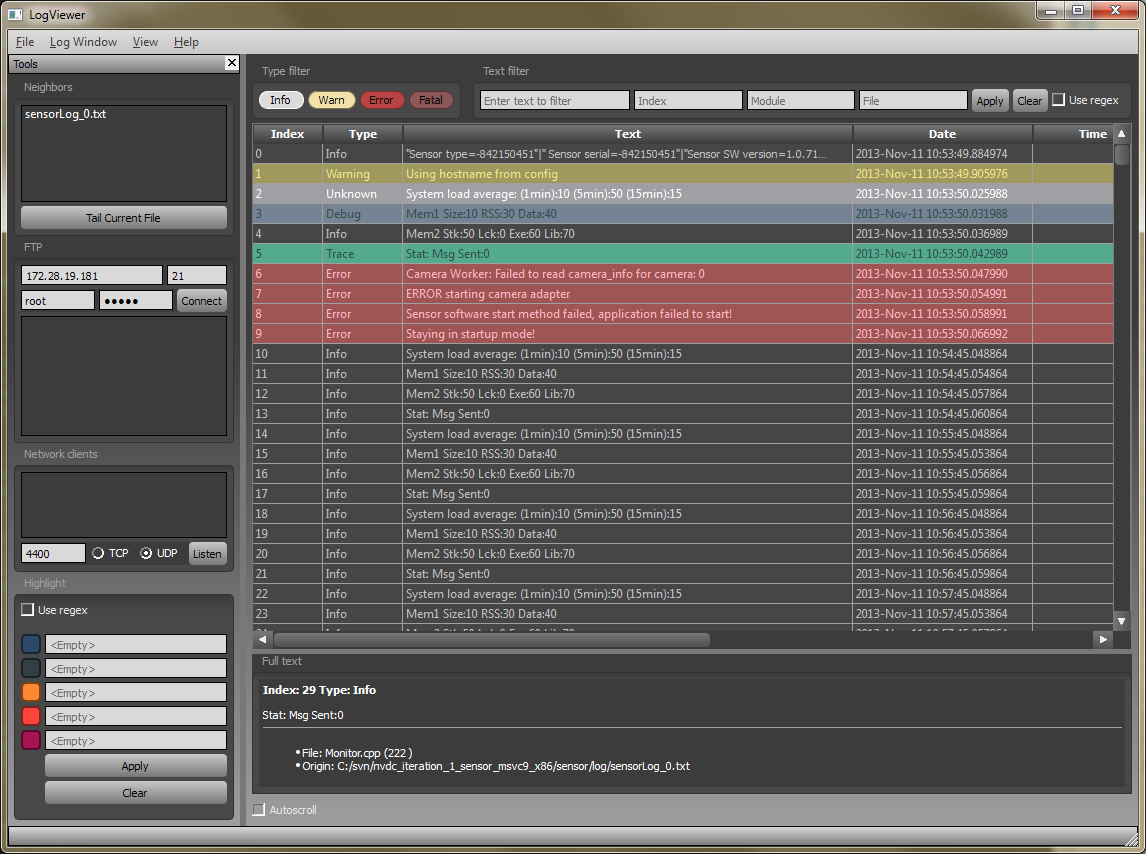
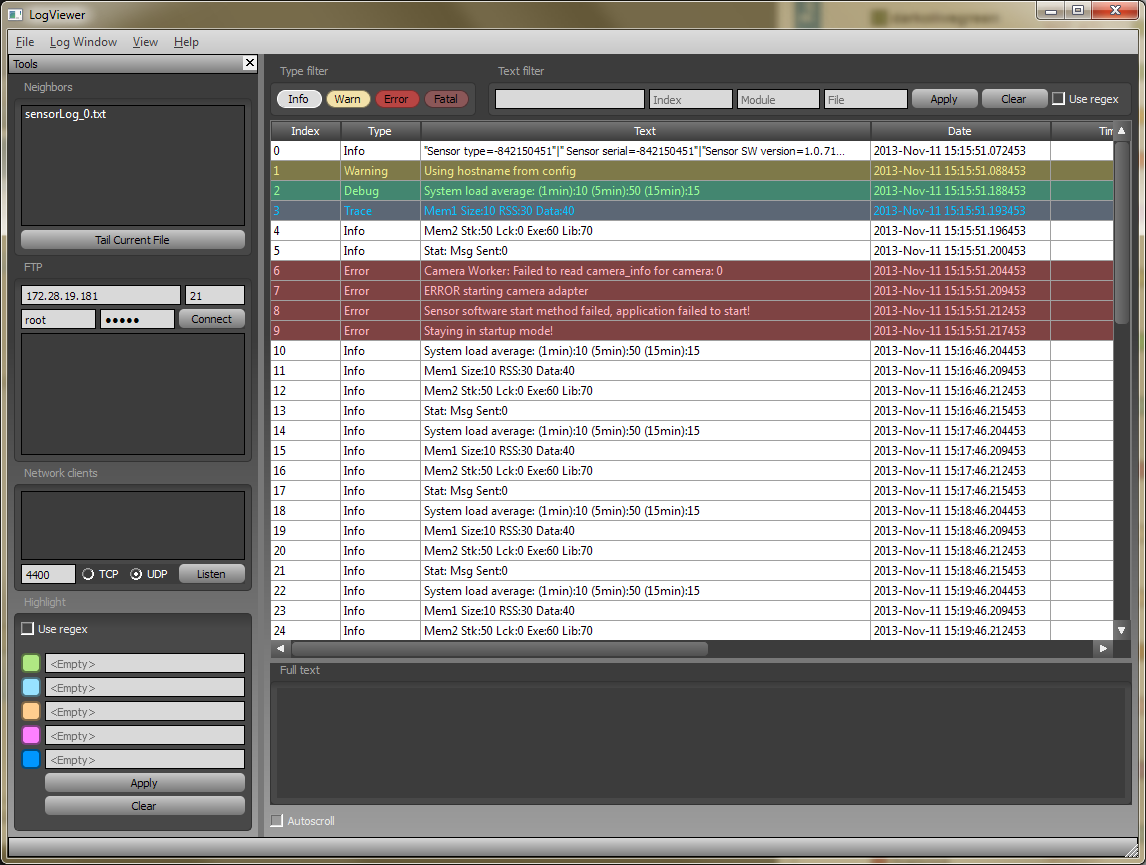
Darker theme adjustments

diff --git a/Resources/skin.css b/Resources/skin.css
@@ -197,15 +197,15 @@ QDockWidget::title {
 
 QPushButton {
     color: black;
-    border-color:transparent;
-    border-radius: 4px;
-    padding: 5px;
+    /*border: 2px solid #8f8f91;*/
+    border-radius: 5px;
+    padding: 3px;
 
         background-color: qlineargradient(spread:pad, x1:1, y1:1, x2:1, y2:0.00568182, stop:0 rgba(120, 120, 120, 255), stop:1 rgba(200, 200, 200, 255));
         /*background-color: qlineargradient(spread:reflect, x1:0, y1:1, x2:0, y2:0, stop:0 rgba(80, 80, 80, 255), stop:0.590909 rgba(80, 80, 80, 255), stop:1 rgba(120, 120, 120, 255));*/
     /*background: qradialgradient(cx: 0.3, cy: -0.4,
         fx: 0.3, fy: -0.4, radius: 1.35, stop: 0 #fff, stop: 1 #888);*/
-    /*min-width: 80px;*/
+    min-width: 60px;
 }
 
 QPushButton:disabled {

diff --git a/log_items_model.cpp b/log_items_model.cpp
@@ -85,7 +85,7 @@ namespace Log_viewer
                 {
 
                     case lt_info :
-                        color.setNamedColor("dimgray");
+                        return QVariant(Qt::white);
                         break;
                     case lt_warning :
                         color.setNamedColor("khaki");
@@ -97,10 +97,10 @@ namespace Log_viewer
                         color.setNamedColor("red");
                         break;
                     case lt_trace :
-                        color.setNamedColor("aquamarine");
+                        color.setNamedColor("lightsteelblue");
                         break;
                     case lt_debug :
-                        color.setNamedColor("lightsteelblue");
+                        color.setNamedColor("aquamarine");
                         break;
                     case lt_always :
                         color.setNamedColor("lavender");
@@ -110,7 +110,7 @@ namespace Log_viewer
                     case lt_none : return QVariant(Qt::gray);
                     default : return QVariant(Qt::white);
                 }
-                return QVariant(color.darker(150));
+                return QVariant(color.darker(190));
             }
             else
             {
@@ -126,36 +126,44 @@ namespace Log_viewer
             break;
         case Qt::ForegroundRole:
         {
-            QColor color;
-            switch(m_items.at(index.row())->get_log_type())
+            if(m_type_highlight_enabled)
             {
-                case lt_info :
-                    color.setNamedColor("silver");
-                    break;
-                case lt_warning :
-                    color.setNamedColor("khaki");
-                    break;
-                case lt_error :
-                    color.setNamedColor("lightpink");
-                    break;
-                case lt_fatal :
-                    color.setNamedColor("beige");
-                    break;
-                case lt_trace :
-                    color.setNamedColor("darkslategray");
-                    break;
-                case lt_debug :
-                    color.setNamedColor("darkslategray");
-                    break;
-                case lt_always :
-                    color.setNamedColor("darkslategray");
-                    break;
-                case lt_application : return QVariant(Qt::white);
-                case lt_unknown: return QVariant(Qt::white);
-                case lt_none : return QVariant(Qt::white);
-                default : return QVariant(Qt::white);
+                QColor color;
+                switch(m_items.at(index.row())->get_log_type())
+                {
+                    case lt_info :
+                        return QVariant(Qt::black);
+                        break;
+                    case lt_warning :
+                        color.setNamedColor("khaki");
+                        break;
+                    case lt_error :
+                        color.setNamedColor("lightpink");
+                        break;
+                    case lt_fatal :
+                        color.setNamedColor("beige");
+                        break;
+                    case lt_trace :
+                        color.setNamedColor("deepskyblue");
+                        break;
+                    case lt_debug :
+                        color.setNamedColor("palegreen");
+                        break;
+                    case lt_always :
+                        color.setNamedColor("darkslategray");
+                        break;
+                    case lt_application : return QVariant(Qt::white);
+                    case lt_unknown: return QVariant(Qt::white);
+                    case lt_none : return QVariant(Qt::white);
+                    default : return QVariant(Qt::white);
+                }
+                return QVariant(color);
             }
-            return QVariant(color);
+            else
+            {
+                return QVariant(Qt::black);
+            }
+            break;
         }
         default:
             return QVariant();
